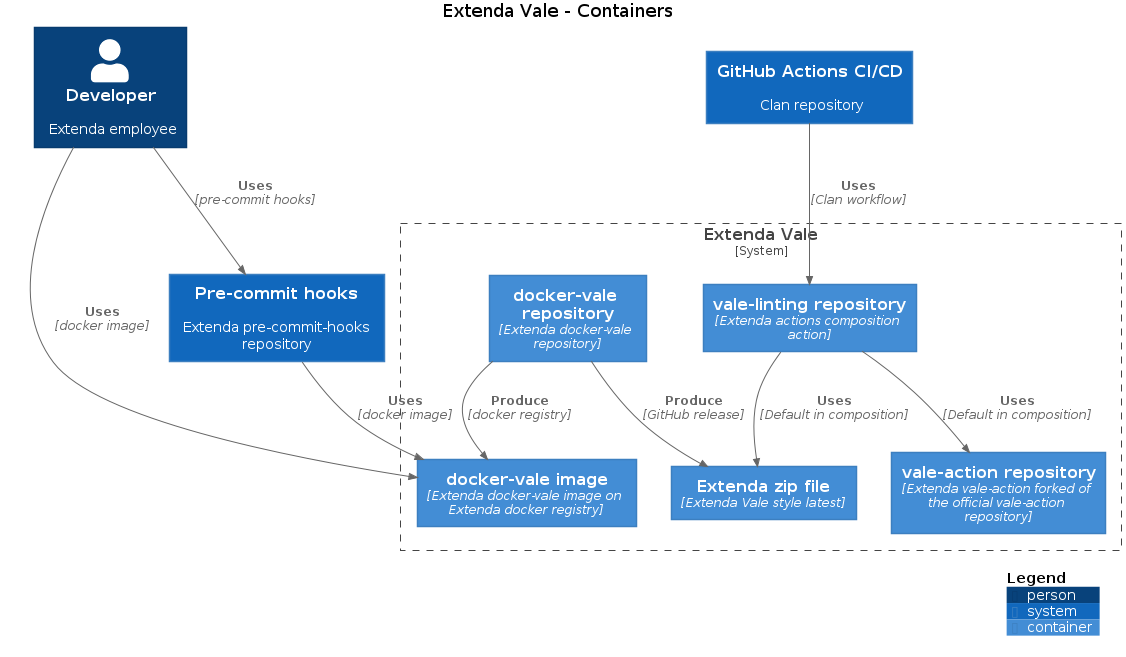
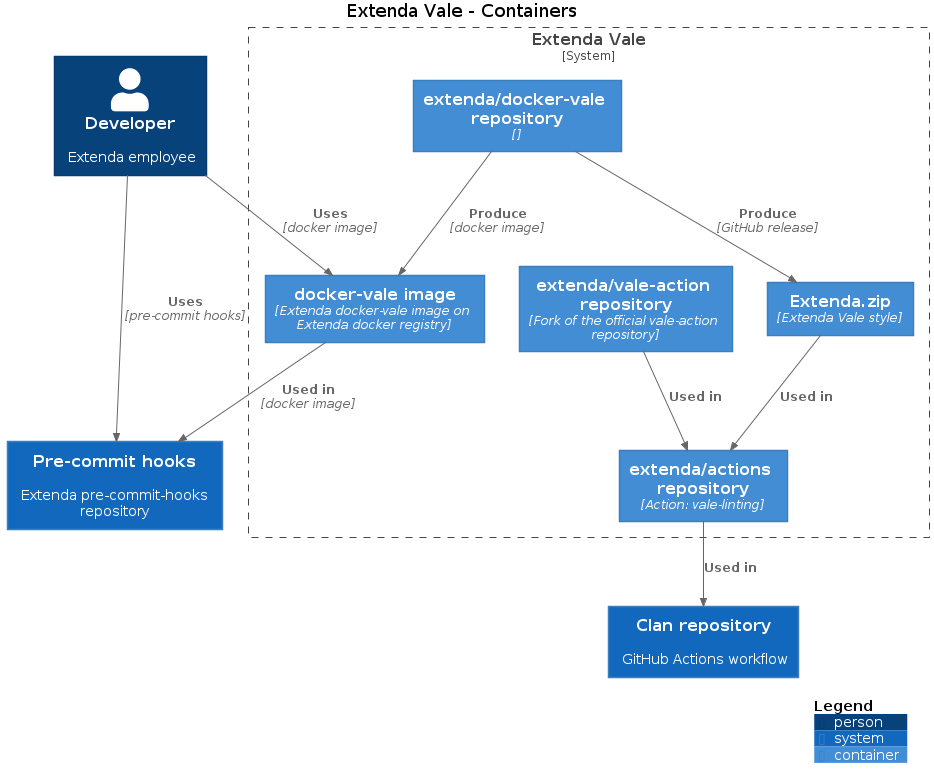
docs(CHAP-94): Update DSL and use image in README

diff --git a/README.md b/README.md
@@ -19,7 +19,10 @@ This docker image is known to be used by the following repositories:
 *
   * :warning: only use the Extenda style (`.github/styles/Extenda` + `.github/styles/Vocab/Extenda`) which is released as a zip file
 
+![Extenda Vale](images/structurizr-ExtendaVale-Container.png)
+
 ## Usage
+
 
 ### Examples
 
